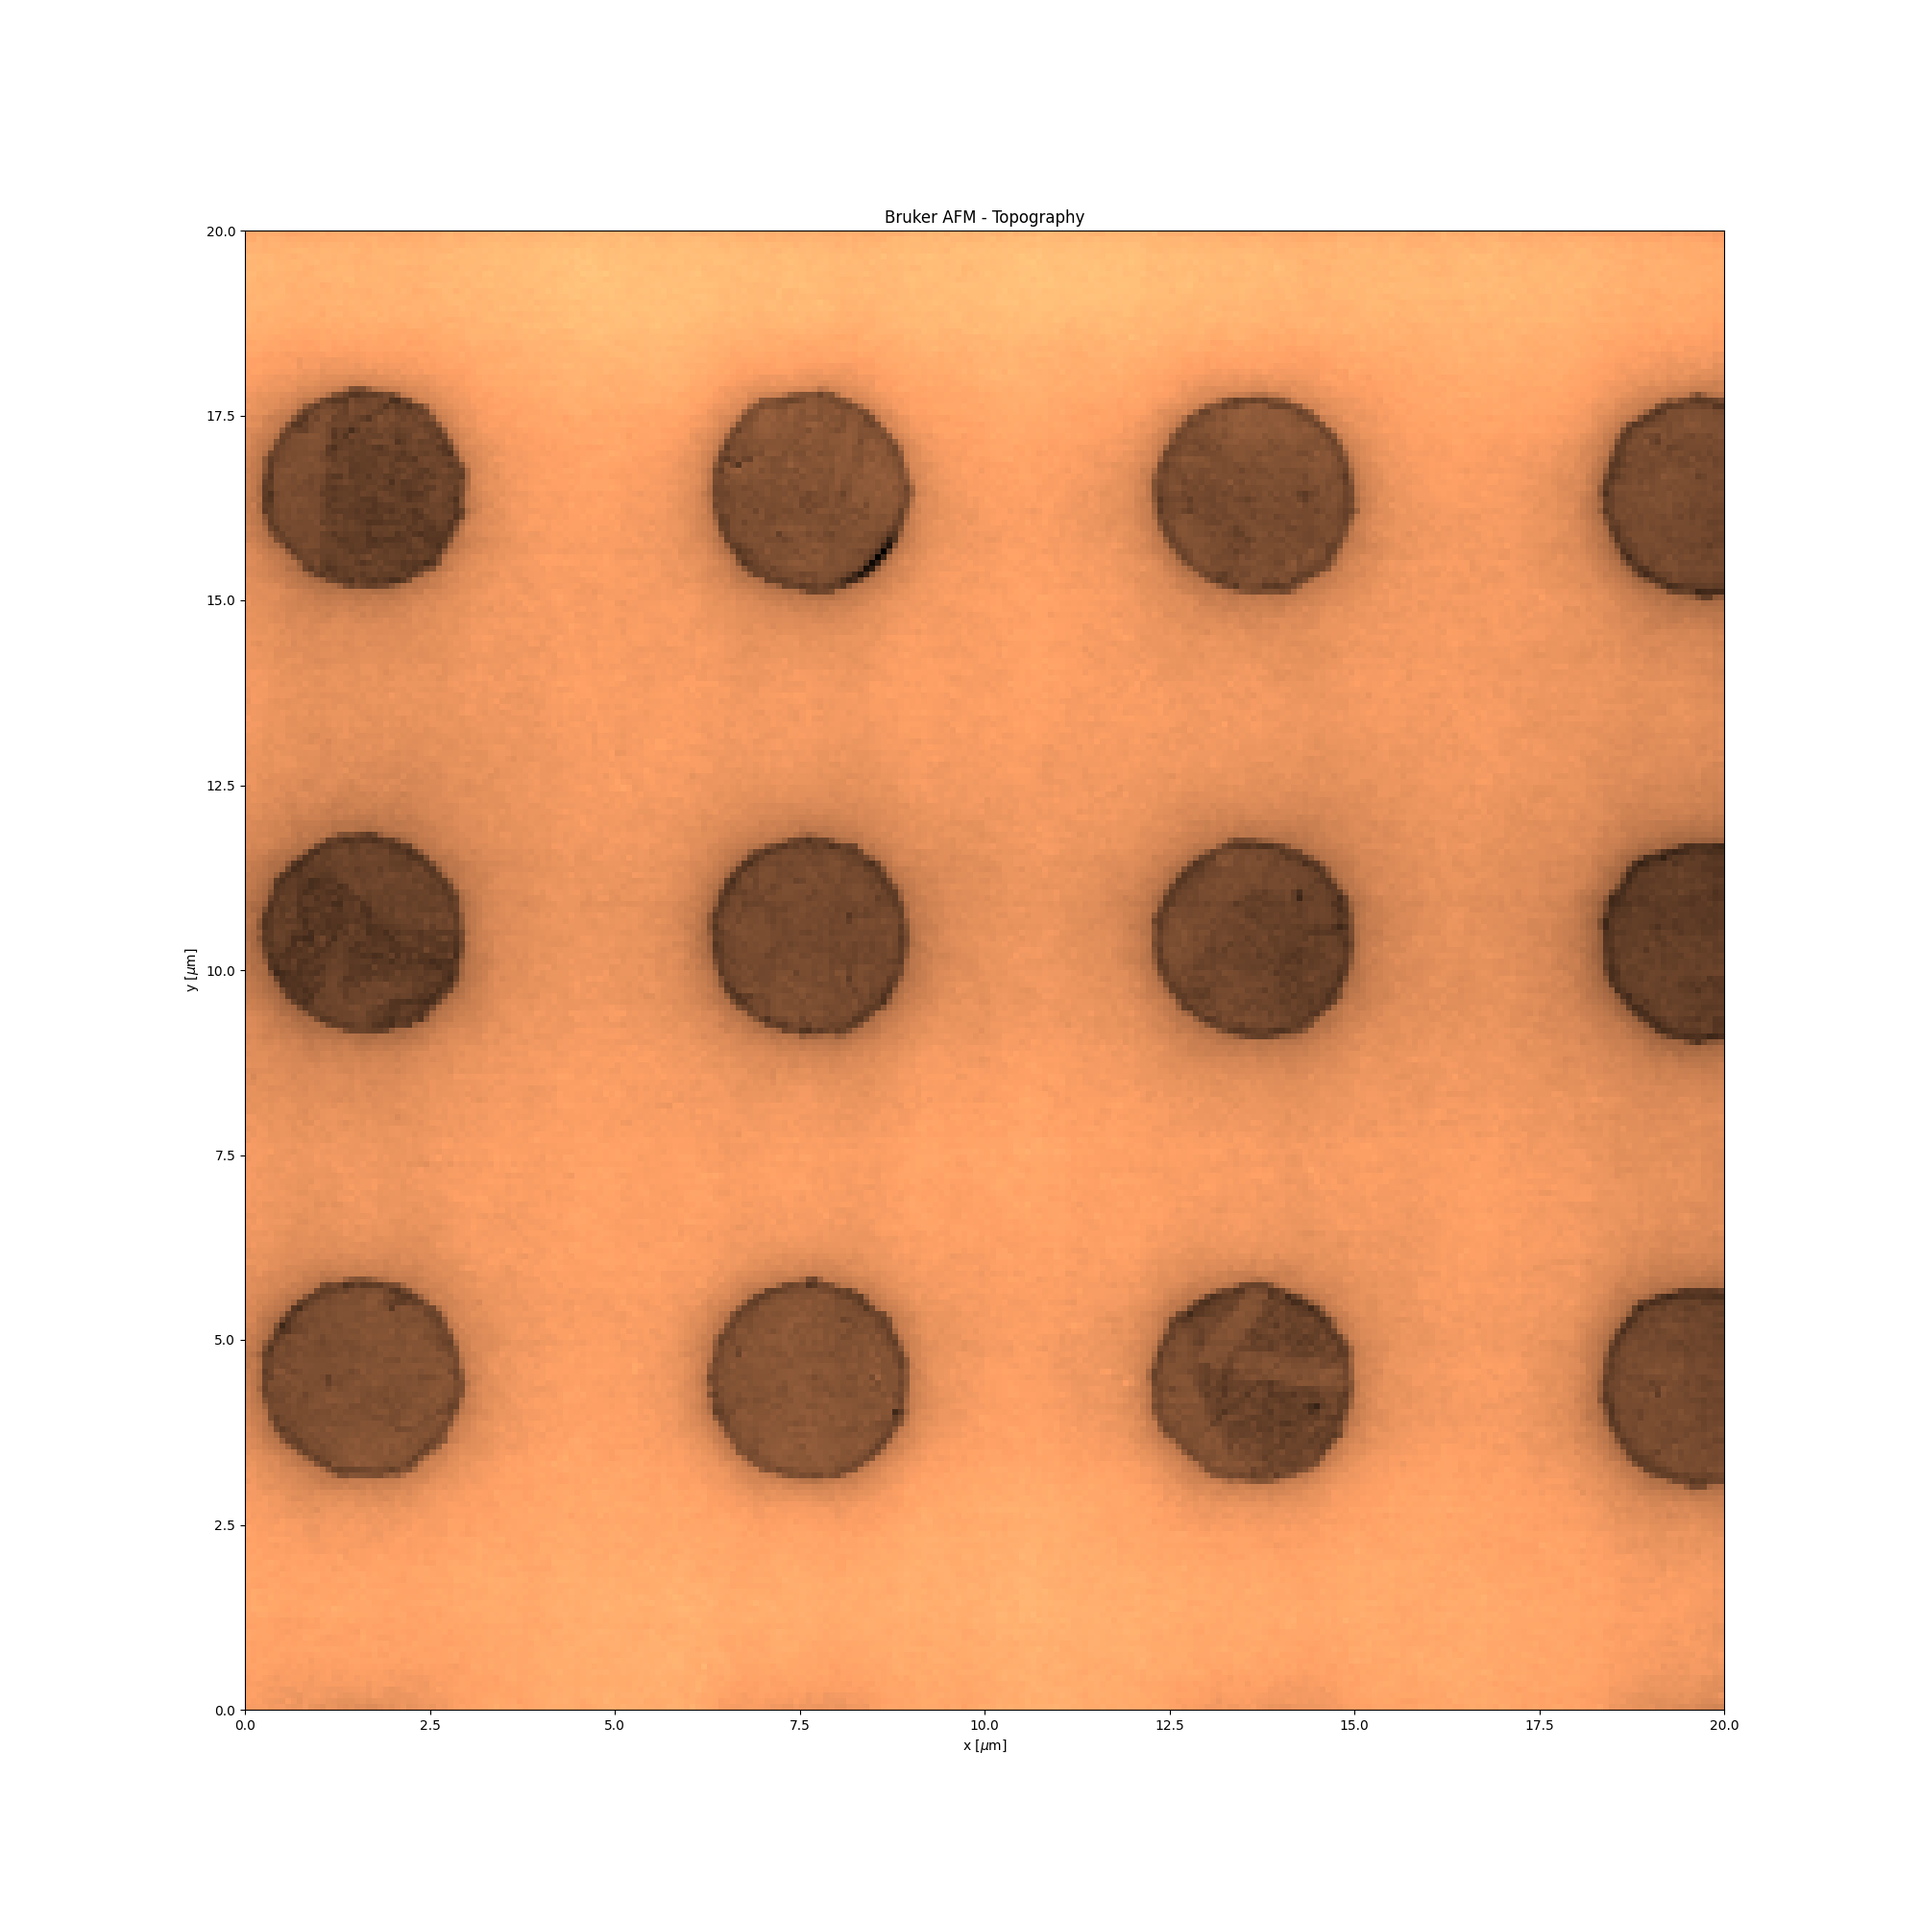
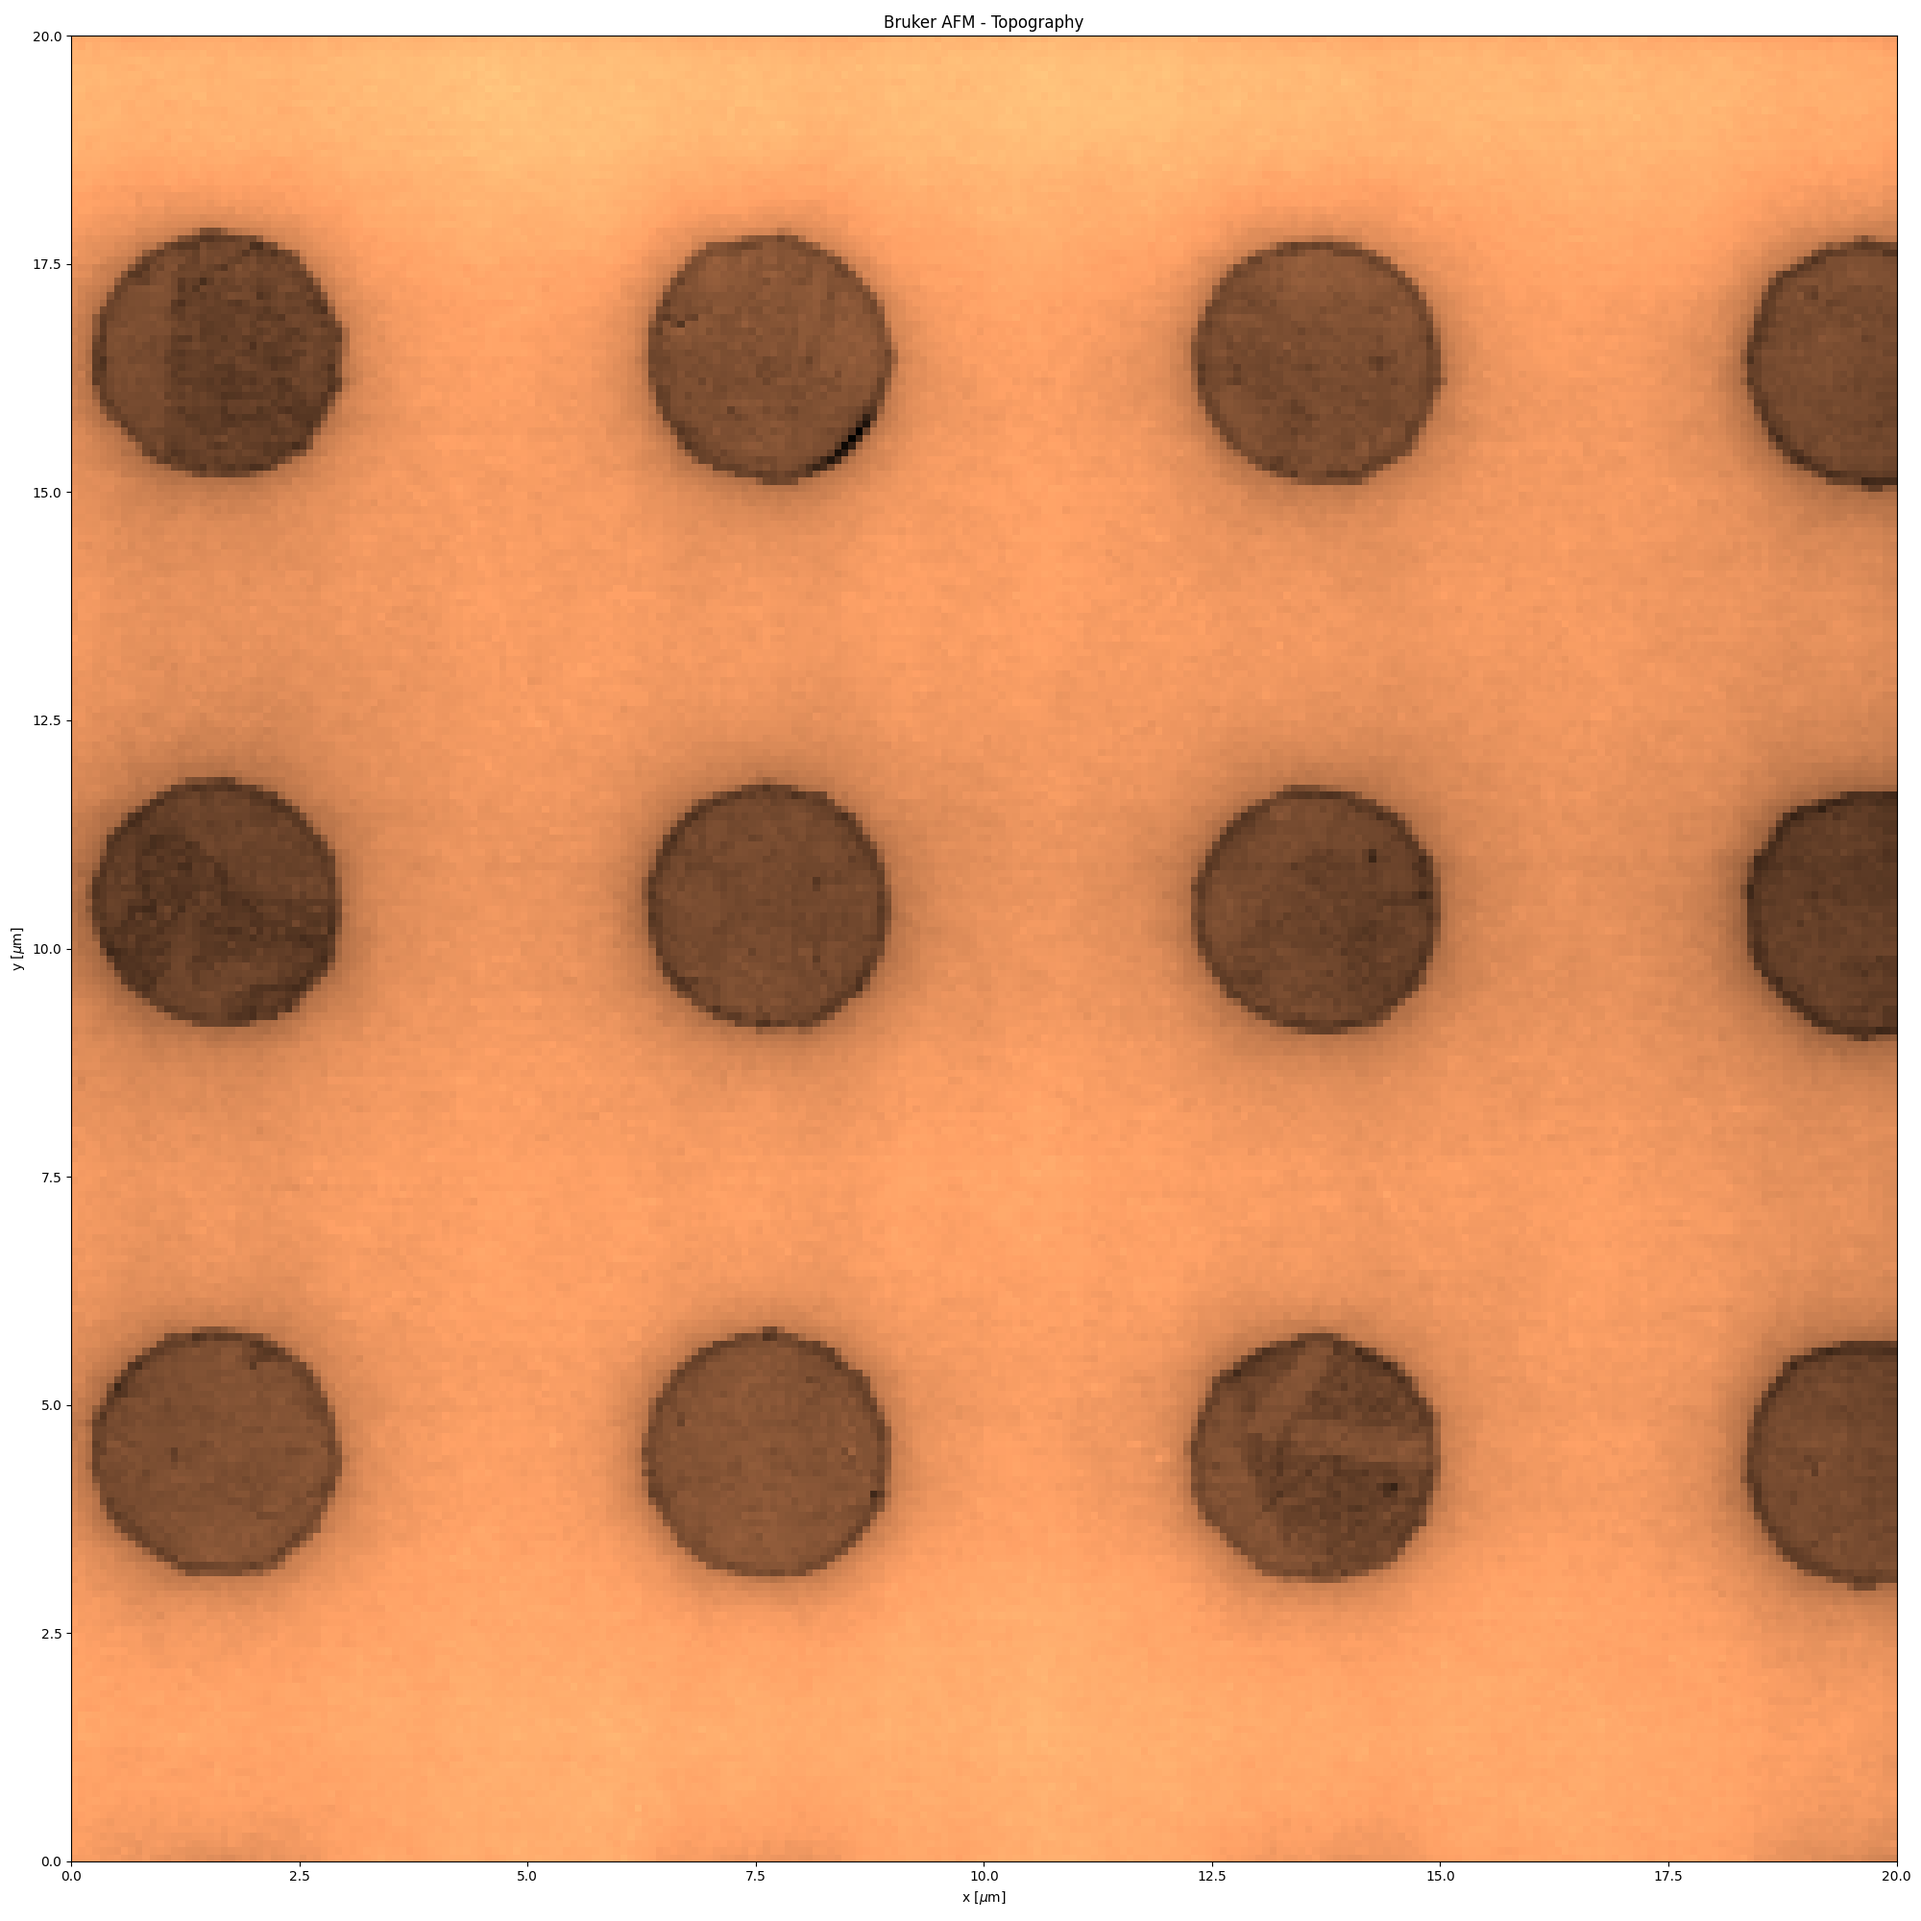
Removed excessive white spaces

diff --git a/AFMTOOL/AFMtool.py b/AFMTOOL/AFMtool.py
@@ -29,6 +29,7 @@ fig, ax = plt.subplots(1, 1, figsize=(20, 20))
 height_data_correct_plane.show(ax=ax, cmap="copper")
 #amp_error_data.show(ax=ax[2])
 
+fig.tight_layout()
 plt.savefig("../AFMTOOL/images/2d_height_plot")
 
 
@@ -57,5 +58,6 @@ X, Y = np.meshgrid(np.linspace(0, 20, len(height_array)), np.linspace(0, 20, len
 # TODO: Experiement with different colors
 plot = ax.plot_surface(X=X, Y=Y, Z=height_array, cmap='copper')
 
+fig.tight_layout()
 plt.savefig("../AFMTOOL/images/3d_height_plot")
 
